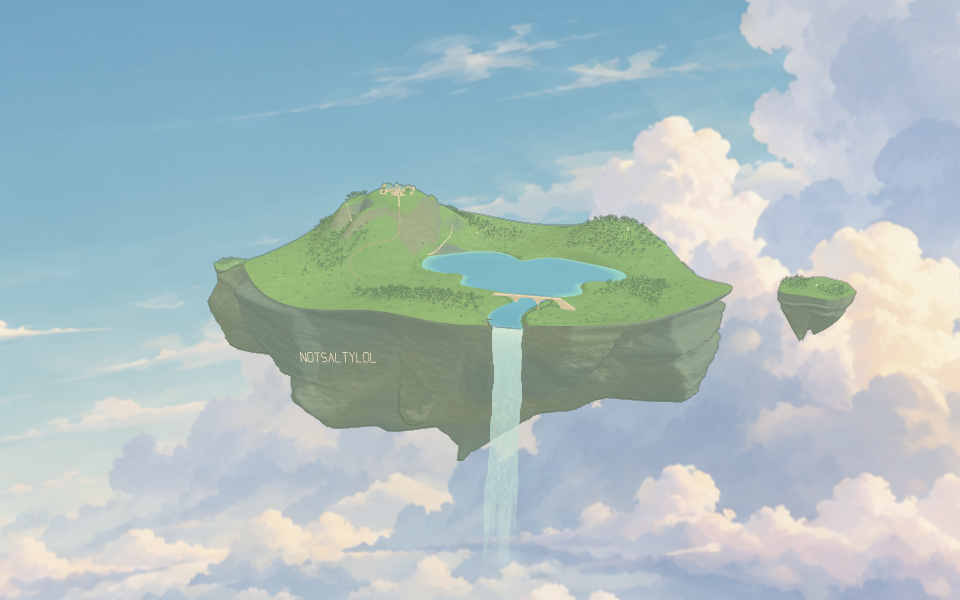
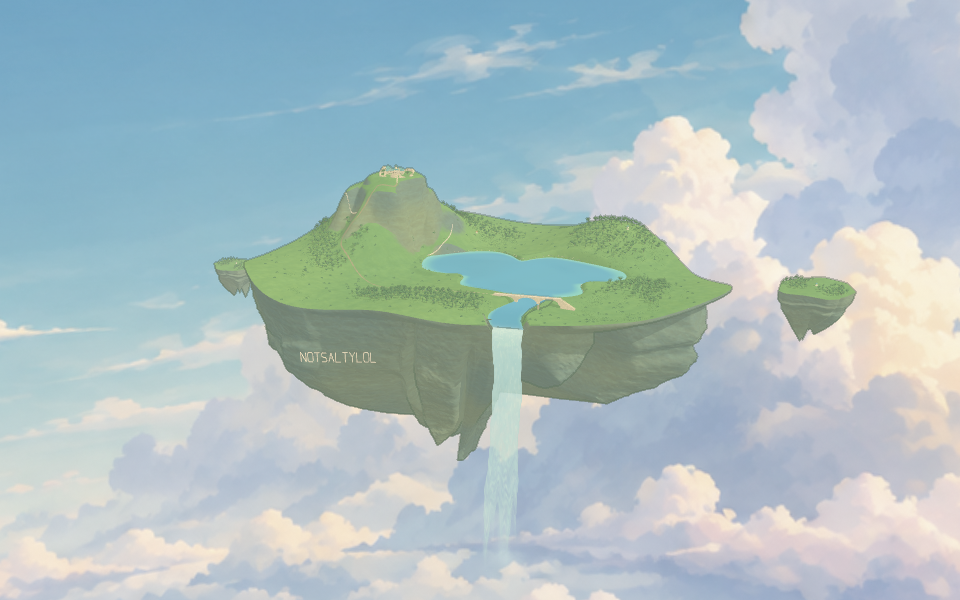
Sync hanging cliffs, raised summit and connected approach from source c848806

Changed region(s): [[0.2188, 0.45, 0.7812, 0.75], [0.3438, 0.27, 0.4688, 0.36], [0.625, 0.36, 0.6562, 0.39]]

diff --git a/public/assets/sky-castle-geology.js b/public/assets/sky-castle-geology.js
@@ -183,7 +183,7 @@ function structuralRelief(angle,depth,height,radius){
 }
 
 /** Radial envelope of connected oblique crags, in unscaled island units. */
-export function cliffFormation(angle,depth,height=1.14-6.34*depth){
+function inscriptionFormation(angle,depth,height=1.14-6.34*depth){
   const t=clamp01(depth),dx=Math.cos(angle),dz=Math.sin(angle)*.76;
   const centerX=-.38*smooth(.08,.93,t)+.11*Math.sin(Math.PI*t),centerZ=-.13*smooth(.14,.94,t);
   const dip=(.033*Math.sin(angle-.4)+.024*Math.cos(angle*2+.6))*Math.sin(Math.PI*t);
@@ -224,5 +224,136 @@ export function cliffFormation(angle,depth,height=1.14-6.34*depth){
   const rim=1-smooth(.006,.038,t),tip=smooth(.89,1,t);
   radius=radius*(1-rim)+6.8*rim;
   radius=radius*(1-tip)+coreRadius(t)*tip;
+  return {radius:Math.max(.13,radius),centerX,centerZ};
+}
+
+
+// The upper bedrock is continuous, but its lower body is divided into unequal
+// substantial, joined masses. The gaps between these masses are geological
+// clefts; their roots remain joined to the fixed meadow roof above them.
+const hangingMasses = [
+  // Unequal neighboring roots group into broader, joined escarpments.
+  // center; breadth / height / depth; yaw; lean; foot cut
+  [-5.10,-.45,1.40, 1.10,1.50,1.30, -.29,.12,-.07,1.05],
+  [-3.08,-1.00,2.78, 1.89,2.07,1.15, -.06,-.13,.08,1.70],
+  [-.20,-.90,3.70, .95,1.86,.85, .35,.12,-.07,1.55],
+  [2.70,-.35,2.90, 1.10,1.90,1.00, -.36,-.14,.04,.70],
+  [5.00,-.60,.60, 1.15,1.45,1.40, .28,-.13,-.06,1.55],
+  [4.10,-.20,-2.30, 1.40,1.30,1.05, -.21,.11,.08,.95],
+  [1.00,-.90,-3.40, 1.40,2.00,1.05, .34,-.14,-.11,1.21],
+  [-2.20,-.50,-3.10, 1.30,1.70,1.15, -.12,-.16,.09,1.01],
+  [-4.70,-.50,-1.50, 1.20,1.90,1.20, -.38,.12,.10,1.16],
+].map(([x,y,z,sx,sy,sz,yaw,leanX,leanZ,foot],variant)=>{
+  const c=Math.cos(yaw),s=Math.sin(yaw),planes=[];
+  function plane(nx,ny,nz,cut){
+    const a=nx*c/sx-nz*s/sz,b=ny/sy-nx*leanX/sx-nz*leanZ/sz,d=nx*s/sx+nz*c/sz;
+    planes.push([a,b,d,cut+a*x+b*y+d*z,1/Math.hypot(a,b,d)]);
+  }
+  // Steep sides and one broad oblique shoulder distinguish an escarpment from
+  // a conical radial lobe. The irregular plan is shared through its whole root.
+  const turns=[-.08,1.03,2.44,3.57,4.69,5.61];
+  turns.forEach((a,i)=>plane(Math.cos(a),-(.13+((i+variant*2)%4)*.035),Math.sin(a),.86+((i*3+variant)%5)*.031));
+  plane(.06,1,-.11,1.14);
+  // Keep the natural upper face that already carries the inscription. Its
+  // lower mass can move inward independently without a rectangular name patch.
+  if(variant===1)planes.splice(0,planes.length,...crags[1].slice(0,6));
+  // Three shallow unequal fracture faces close a broad blunt foot. None is a
+  // horizontal box cap, and they do not all converge into a repeated spike.
+  plane(.78,-1,.29,foot);
+  plane(-.63,-1,.66,foot+.13);
+  plane(.32,-1,-.87,foot+.21);
+  plane(Math.cos(1.81+variant*.51),-.34,Math.sin(1.81+variant*.51),1.02);
+  const slide=variant===1?.68:.31;
+  return {planes,slideX:-x*slide,slideZ:-z*slide,
+    slideStart:variant===1?-1.0:-.55,slideEnd:y-sy*(variant===1?1.70:1.15)};
+});
+const hangingCoreProfile=[[0,6.8],[.032,6.59],[.085,5.77],[.16,3.88],[.26,2.20],[.43,1.21],[.62,.86],[.80,.58],[.92,.31],[1,.1768]];
+function hangingCoreRadius(t){
+  for(let i=1;i<hangingCoreProfile.length;i++)if(t<=hangingCoreProfile[i][0]){
+    const [a,ra]=hangingCoreProfile[i-1],[b,rb]=hangingCoreProfile[i];
+    return mix(ra,rb,clamp01((t-a)/(b-a)));
+  }
+  return .1768;
+}
+
+// Fault families divide the larger faces into joined subsidiary buttresses.
+// Their breadth is measured in major rock masses, not physical-size erosion.
+const hangingClefts=[
+  [1.97,.17,1.32,.15,.31,.90],
+  [4.13,.20,1.12,-.19,.17,.72],
+  [.16,.16,.91,.13,.21,.77],
+];
+const hangingLedges=[
+  [2.51,.44,-1.78,.15,.19,-.13],
+  [.40,.39,-.85,.13,-.16,.20],
+  [4.31,.51,-2.28,.18,.22,.09],
+];
+
+/** Connected hanging escarpments, with the exact rim and fitted name face. */
+export function cliffFormation(angle,depth,height=1.14-6.34*depth){
+  const t=clamp01(depth),dx=Math.cos(angle),dz=Math.sin(angle)*.76;
+  const centerX=-.38*smooth(.08,.93,t)+.11*Math.sin(Math.PI*t),centerZ=-.13*smooth(.14,.94,t);
+  const dip=(.027*Math.sin(angle-.4)+.021*Math.cos(angle*2+.6))*Math.sin(Math.PI*t);
+  const core=hangingCoreRadius(clamp01(t+dip));
+  let radius=core;
+  for(const mass of hangingMasses){
+    const {planes,slideX,slideZ,slideStart,slideEnd}=mass;
+    const descend=smooth(slideStart,slideEnd,height);
+    const rayX=centerX-slideX*descend,rayZ=centerZ-slideZ*descend;
+    let near=0,far=Infinity;
+    for(const [nx,ny,nz,limit]of planes){
+      const remaining=limit-nx*rayX-ny*height-nz*rayZ,velocity=nx*dx+nz*dz;
+      if(Math.abs(velocity)<1e-10){if(remaining<0){far=-1;break;}continue;}
+      const hit=remaining/velocity;
+      if(velocity>0)far=Math.min(far,hit);else near=Math.max(near,hit);
+      if(near>far)break;
+    }
+    if(far>=near&&Number.isFinite(far)){
+      const middle=(near+far)*.5;let embedded=Infinity;
+      for(const [nx,ny,nz,limit,inverseLength]of planes){
+        const distance=limit-nx*(rayX+dx*middle)-ny*height-nz*(rayZ+dz*middle);
+        embedded=Math.min(embedded,distance*inverseLength);
+      }
+      // Blend tangent intersections into the narrow structural spine instead
+      // of growing detached surface fins at the edge of a distant mass.
+      const joined=core+(far-core)*smooth(0,.16,embedded);
+      radius=Math.max(radius,joined);
+    }
+  }
+  for(const [azimuth,breadth,cut,drift,start,end]of hangingClefts){
+    const along=smooth(start,start+.12,t)*(1-smooth(end-.12,end,t));
+    const jointCenter=azimuth+drift*clamp01((t-start)/(end-start));
+    const across=clamp01(1-Math.abs(angularDistance(angle,jointCenter))/breadth);
+    radius=Math.max(core*.80,radius-cut*across*smooth(0,.22,across)*along);
+  }
+  radius+=structuralRelief(angle,t,height,radius)*.55;
+  // Roots are tucked inside the fixed meadow edge. Without this envelope an
+  // inward-leaning deep mass would flare outward above its shoulder and form
+  // unsupported horns beside the upper rim.
+  radius=Math.min(radius,6.8*(1-.22*t));
+  // A few dipping, partial ledges belong to individual masses. The large
+  // clefts come from the actual mass layout, not noise carved into a wide cone.
+  const rockX=dx*radius,rockZ=dz*radius;
+  for(const [azimuth,breadth,level,cut,slopeX,slopeZ]of hangingLedges){
+    const across=clamp01(1-Math.abs(angularDistance(angle,azimuth))/breadth);
+    const bed=height+slopeX*rockX+slopeZ*rockZ;
+    radius-=cut*smooth(0,.25,across)*smooth(level-.34,level-.18,bed)*(1-smooth(level+.025,level+.12,bed));
+  }
+  const reveal=smooth(.045,.15,t)*(1-smooth(.80,.99,t));
+  const bed=height+.34*dx*radius+.22*dz*radius;
+  radius+=coherentNoise3D(dx*radius*.63+7.1,bed*3.2,dz*radius*.63-3.4)*.055*reveal;
+
+  // Evaluate the previous formation only where the fitted masonry letters
+  // need their established face and normals. This is a narrow spatial band,
+  // not a broad smooth panel filling the clefts beneath the inscription.
+  if(height> -1.10&&height< -.08&&dx<-.08&&dx>-.9&&dz>.30){
+    const original=inscriptionFormation(angle,t,height),x=dx*original.radius+original.centerX;
+    const horizontal=smooth(-4.75,-4.35,x)*(1-smooth(-1.65,-1.25,x));
+    const vertical=smooth(-1.10,-.84,height)*(1-smooth(-.30,-.08,height));
+    radius=mix(radius,original.radius,horizontal*vertical);
+  }
+  const rim=1-smooth(.006,.038,t),tip=smooth(.89,1,t);
+  radius=mix(radius,6.8,rim);
+  radius=mix(radius,hangingCoreRadius(t),tip);
   return {radius:Math.max(.13,radius),centerX,centerZ};
 }

diff --git a/public/assets/sky-castle-terrain.js b/public/assets/sky-castle-terrain.js
@@ -65,15 +65,50 @@ export function buildTerrain(THREE, materials, { scale = 1, reservedAreas = [] }
     // A hollow on the lake-facing flank separates the long sunward shoulder
     // from the quieter approach saddle. The keep remains above every rib.
     h -= .39*Math.exp(-((x+1.93-.26*(z+.62))**2/.32+(z+.62)**2/1.05));
-    if(h>2.39)h=2.39+.15*(1-Math.exp(-(h-2.39)/.15));
-    // Keep the exact anchor and a physically buildable central keep footprint.
-    // The smaller irregular bench blends into a ridge instead of a flat mesa.
-    const benchX=Math.max(.68,1.38/scale),benchZ=Math.max(.59,1.38/scale);
+    const originalUpland=h;
+    // A narrow summit rises between two unequal shoulders. The long western
+    // spur and the cut on the lake side make the castle cap an ascending rock
+    // silhouette. The field ends before the meadow rim or the lake basin.
+    const summitDistance=Math.hypot(dx,dz),summitMask=1-smooth(1.80,2.35,summitDistance);
+    const summitLift=.64*Math.exp(-((dx+.34*dz)**2/.90+dz*dz/.70));
+    const westShoulder=.26*Math.exp(-((dx+1.08+.48*(dz-.60))**2/.24+(dz-.60)**2/.92));
+    const eastCleft=.22*Math.exp(-((dx-.89+.15*(dz-.58))**2/.14+(dz-.58)**2/.52));
+    h+=(summitLift+westShoulder-eastCleft)*summitMask;
+    const cap=2.39+.50*summitMask;
+    if(h>cap)h=cap+.15*(1-Math.exp(-(h-cap)/.15));
+    // A compact upper shoulder descends into the larger mountain. Preserve
+    // the settlement's physical bearing area below so its gateway and paving
+    // still meet the ground as the surrounding ridge becomes steeper.
+    const benchX=Math.max(.50,1.38/scale),benchZ=Math.max(.48,1.38/scale);
     const benchAngle=Math.atan2(dz,dx);
     const benchDistance=Math.hypot((dx+.10*dz)/benchX,dz/benchZ)
       /(1+.075*Math.sin(benchAngle*3+.4)+.035*Math.cos(benchAngle*5));
-    const terrace = Math.max(1-smooth(1,1.80,benchDistance),1-smooth(1.35/scale,1.50/scale,Math.hypot(dx,dz)));
-    h = h * (1 - terrace) + 2.78 * terrace;
+    const terrace = Math.max(1-smooth(1,1.90,benchDistance),1-smooth(1.35/scale,1.50/scale,summitDistance));
+    const shoulderDrop=.10*(1-Math.exp(-((Math.max(0,summitDistance-1.50/scale)/.50)**2)));
+    h = h * (1 - terrace) + (3.35-shoulderDrop) * terrace;
+    const oldX=Math.max(.68,1.38/scale),oldZ=Math.max(.59,1.38/scale);
+    const oldDistance=Math.hypot((dx+.10*dz)/oldX,dz/oldZ)
+      /(1+.075*Math.sin(benchAngle*3+.4)+.035*Math.cos(benchAngle*5));
+    const oldTerrace=Math.max(1-smooth(1,1.80,oldDistance),1-smooth(1.35/scale,1.50/scale,summitDistance));
+    const oldHill=originalUpland>2.39?2.39+.15*(1-Math.exp(-(originalUpland-2.39)/.15)):originalUpland;
+    const oldHeight=oldHill*(1-oldTerrace)+2.78*oldTerrace;
+    // One long southwest shoulder carries the oblique approach. Extending
+    // only this sector breaks the circular collar below the protected court.
+    const approachAngle=Math.atan2(Math.sin(benchAngle-2.21),Math.cos(benchAngle-2.21));
+    const approachSector=Math.exp(-((approachAngle/.64)**2));
+    const precinctLock=1-smooth(8.6/scale,(10.0+8*approachSector)/scale,summitDistance);
+    h=h*(1-precinctLock)+(oldHeight+.57)*precinctLock;
+    // A narrow rising ledge supports the last traverse into the gateway. Its
+    // grade is independent of the steeper bare face below. Begin the blend
+    // on the already level court so it cannot form a lip across the road.
+    const entryAngle=Math.atan2(Math.sin(benchAngle-1.85),Math.cos(benchAngle-1.85));
+    const entryShoulder=Math.exp(-((entryAngle/.88)**6))
+      *smooth(.55,.72,summitDistance)*(1-smooth(1.12,1.44,summitDistance));
+    const entryGrade=3.35-.65*Math.max(0,summitDistance-.68);
+    if(scale>2)h+=Math.max(0,entryGrade-h)*entryShoulder;
+    // End before the meadow rim and restore distant terrain exactly, including
+    // the wider bearing pad used by small-scale previews.
+    h=oldHeight+(h-oldHeight)*summitMask;
     const shoreDistance=localLakeDistance(x,z);
     // A shallow natural bank contains the lake where the underlying rolling
     // meadow dips just below water level. The outlet is excavated afterward.
@@ -85,17 +120,32 @@ export function buildTerrain(THREE, materials, { scale = 1, reservedAreas = [] }
     return h * (1 - excavation) + .55 * excavation;
   }
   const height = (x, z) => localHeight(x / scale, z / scale) * verticalScale;
-  function rockExposure(x,z){
-    const lx=x/scale,lz=z/scale,d=Math.hypot(lx+3.1,lz+1.7);
-    const mountain=(1-smooth(2.05,2.70,d))*smooth(.72,1.02,d);
+  function localRockExposure(lx,lz,normalY){
+    const d=Math.hypot(lx+3.1,lz+1.7);
+    const mountain=(1-smooth(2.05,2.70,d))*smooth(.54,.84,d);
     if(mountain===0)return 0;
-    const e=.012,dx=(localHeight(lx+e,lz)-localHeight(lx-e,lz))/(2*e);
+    const dxHill=lx+3.1,dzHill=lz+1.7;
+    // Turf follows the rounded rib between two steep faces, joining back into
+    // the low meadow instead of surrounding the summit with one tan apron.
+    const grassyRib=Math.exp(-((dxHill+.35*(dzHill-.55)+.38)**2/.12+(dzHill-.8)**2/1.30))
+      *smooth(.30,.60,normalY);
+    return mountain*Math.max(1-smooth(.58,.82,normalY),smooth(.06,.27,uplandRibs(lx,lz))*.28)*(1-.80*grassyRib);
+  }
+  function rockExposure(x,z){
+    const lx=x/scale,lz=z/scale,e=.012;
+    const distance=Math.hypot(lx+3.1,lz+1.7);
+    if(distance<=.54||distance>=2.70)return 0;
+    const dx=(localHeight(lx+e,lz)-localHeight(lx-e,lz))/(2*e);
     const dz=(localHeight(lx,lz+e)-localHeight(lx,lz-e))/(2*e);
-    const normalY=1/Math.sqrt(1+dx*dx+dz*dz);
-    return mountain*Math.max(1-smooth(.58,.82,normalY),smooth(.06,.27,uplandRibs(lx,lz))*.28);
+    return localRockExposure(lx,lz,1/Math.sqrt(1+dx*dx+dz*dz));
   }
   const castleAnchor = new THREE.Vector3(-3.1 * scale, height(-3.1 * scale, -1.7 * scale), -1.7 * scale);
-  const trail = new THREE.CatmullRomCurve3([[-.8,2.8],[-2.5,2.1],[-3.8,.9],[-2.7,-.25],[-3.1,-1.7]].map(([x,z]) => new THREE.Vector3(x * scale, 0, z * scale)));
+  // The upper route climbs the long western shoulder, then traverses toward
+  // the gate. Crossing the contours avoids a straight road up the steep face.
+  const trailPoints=scale>2
+    ?[[-.8,2.8],[-2.5,2.1],[-3.8,.9],[-4.28,.30],[-3.88,-.19],[-3.52,-.61],[-3.42,-.79],[-2.88,-.82],[-3.1,-1.7]]
+    :[[-.8,2.8],[-2.5,2.1],[-3.8,.9],[-2.7,-.25],[-3.1,-1.7]];
+  const trail = new THREE.CatmullRomCurve3(trailPoints.map(([x,z]) => new THREE.Vector3(x * scale, 0, z * scale)));
   const trailSteps = Math.max(100, Math.min(1200, Math.round(100 * scale)));
   const trailSamples = trail.getPoints(trailSteps);
   const trailSegments = trailSamples.slice(1).map((b, i) => {
@@ -234,11 +284,7 @@ export function buildTerrain(THREE, materials, { scale = 1, reservedAreas = [] }
   const meadowNormals=meadowGeometry.attributes.normal;
   for(let i=0;i<positions.length;i+=3){
     const x=positions[i]/scale,z=positions[i+2]/scale;
-    const summitDistance=Math.hypot(x+3.1,z+1.7);
-    const mountain=(1-smooth(2.05,2.70,summitDistance))*smooth(.72,1.02,summitDistance);
-    const steep=1-smooth(.58,.82,meadowNormals.getY(i/3));
-    const ribs=smooth(.06,.27,uplandRibs(x,z));
-    exposedRock.push(mountain*Math.max(steep,ribs*.28));
+    exposedRock.push(localRockExposure(x,z,meadowNormals.getY(i/3)));
   }
   meadowGeometry.setAttribute('terrainRock',new THREE.Float32BufferAttribute(exposedRock,1));
   const meadowMaterial=materials.meadow||materials.grass;

diff --git a/public/assets/sky-castle-materials.js b/public/assets/sky-castle-materials.js
@@ -82,6 +82,7 @@ const PIGMENT_GLSL = /* glsl */`
   uniform vec2 uCloudSlope;
   uniform vec2 uCloudDrift;
   uniform vec3 uLookoutAnchor;
+  uniform vec3 uSummitAnchor;
   uniform vec3 uPaintShadow;
   uniform vec3 uPaintMoss;
   uniform vec3 uUplandRock;
@@ -124,7 +125,7 @@ const PIGMENT_GLSL = /* glsl */`
     float cover = max(exp(-dot(a,a)), max(exp(-dot(b,b)), exp(-dot(c,c))));
     cover = smoothstep(0.23, 0.78, cover);
     // A break in the clouds leaves the summit/approach and travelers in light.
-    vec2 summit = vec2(-3.1, -1.7) - 2.78 * uCloudSlope;
+    vec2 summit = uSummitAnchor.xz - uSummitAnchor.y * uCloudSlope;
     vec2 lookout = uLookoutAnchor.xz - uLookoutAnchor.y * uCloudSlope;
     float summitOpening = 1.0 - smoothstep(0.55, 1.35, length((p-summit)/vec2(2.6,2.2)));
     float lookoutOpening = 1.0 - smoothstep(0.30, 1.15, length((p-lookout)/vec2(1.4,0.8)));
@@ -255,6 +256,7 @@ export function createMaterials(THREE) {
     uLandscapeScale:{value:1},uCloudStrength:{value:0},
     uCloudSlope:{value:new THREE.Vector2(28/25,8/25)},uCloudDrift:{value:new THREE.Vector2()},
     uLookoutAnchor:{value:new THREE.Vector3(-6.9,-3.3,10.45)},
+    uSummitAnchor:{value:new THREE.Vector3(-3.1,2.78,-1.7)},
     uMeadowTexture:{ value:whiteFallback() }, uMeadowEnabled:{ value:0 },
     uMeadowMean:{ value:new THREE.Color(0x77a451) }, uMeadowStrength:{ value:0.84 },
     uRockTexture:{ value:whiteFallback() }, uRockEnabled:{ value:0 },
@@ -508,7 +510,7 @@ export function createMaterials(THREE) {
           if (uPaintSurface > 2.5 && uPaintSurface < 3.5) outgoingLight = mix(diffuseColor.rgb, outgoingLight, 0.40);
         `);
     };
-    material.customProgramCacheKey = () => `sky-castle-painted-v14-${surface}`;
+    material.customProgramCacheKey = () => `sky-castle-painted-v15-${surface}`;
     materials[key] = material;
   }
 
@@ -887,6 +889,11 @@ export function createMaterials(THREE) {
       throw new TypeError('Lookout anchor must have finite world coordinates');
     shared.uLookoutAnchor.value.copy(position).divideScalar(shared.uLandscapeScale.value);
   }
+  function setSummitAnchor(position) {
+    if (!position || !Number.isFinite(position.x + position.y + position.z))
+      throw new TypeError('Summit anchor must have finite world coordinates');
+    shared.uSummitAnchor.value.copy(position).divideScalar(shared.uLandscapeScale.value);
+  }
   function animateLight(phase) {
     const cycle=((phase%1)+1)%1,angle=cycle*Math.PI*2;
     shared.uCloudDrift.value.set(Math.sin(angle)*0.18,(1-Math.cos(angle))*0.10);
@@ -900,5 +907,5 @@ export function createMaterials(THREE) {
     shared.uLandscapeScale.value=Math.max(0.001,horizontal);
   }
   setStyle('fantasy');
-  return { materials, setStyle, animate, animateLight, setSunDirection, setLookoutAnchor, setWorldScale, loadMeadowTexture, loadRockTexture, setSkyTexture, styleInfo };
+  return { materials, setStyle, animate, animateLight, setSunDirection, setLookoutAnchor, setSummitAnchor, setWorldScale, loadMeadowTexture, loadRockTexture, setSkyTexture, styleInfo };
 }

diff --git a/public/assets/sky-castle-scene.js b/public/assets/sky-castle-scene.js
@@ -52,6 +52,7 @@ scene.add(ambient,sunlight,sunlight.target);
 const terrain = buildTerrain(THREE,m,{scale:LAND_SCALE,
  reservedAreas:[{x:-3.1*LAND_SCALE,z:-1.7*LAND_SCALE,radius:11.3}]
 }); scene.add(terrain.group);
+palette.setSummitAnchor(terrain.castleAnchor);
 const landscapeDetails = buildLandscapeDetails(THREE,m,terrain); scene.add(landscapeDetails.group);
 const botany = buildBotany(THREE,m,terrain); scene.add(botany.group);
 const castle = buildCastle(THREE,m); castle.scale.setScalar(.64);
